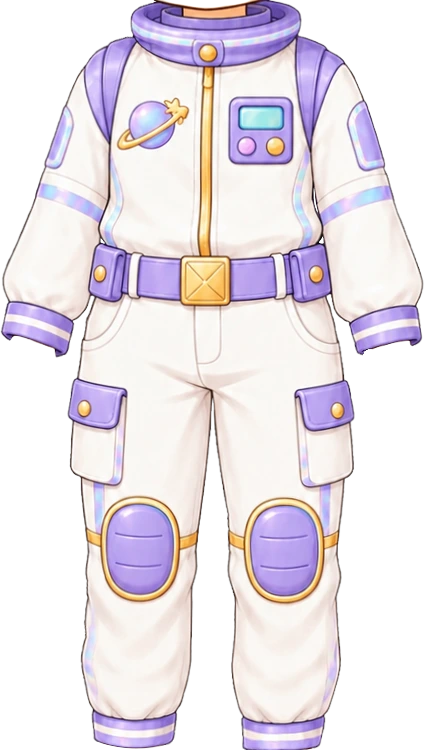
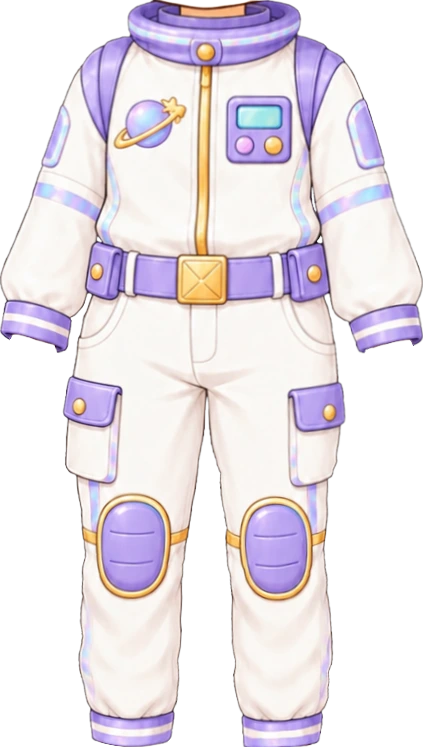
여아 우주복 새 원화로 교체 (#811)
같은 디자인의 새 원화를 앞 판에 템플릿 매칭해 사용자가 맞춘 자리(배율 0.714·목 x511.5·턱 y356)를 그대로 이었다(배율 0.7104). 목둘레 안 목 살은 지웠다. imgGirl ?v=5.

Claude-Session: https://claude.ai/code/session_018maNuYqDfFyRSe9uKpZhPR

diff --git a/src/data/avatarEquipment.js b/src/data/avatarEquipment.js
@@ -343,8 +343,12 @@ export const AVATAR_CATALOG = [
      원화 맨 위의 턱선과 목둘레 안쪽 목 살을 지워 베이스 목이 그대로 보이게 하고, 목둘레 안 목 중심(x214)을 여아 목 중심 x512.5 에,
      원화 턱 자리 y2 를 여아 턱선 y361 에 맞췄다. 배율 0.70 — 흰 수영복·다리가 다 가려지고 발목·손목에서 끝난다. imgGirl ?v=2.
      [2026-10-02] 사용자 조정 — 위로 5·왼쪽 1·2% 크게: 배율 0.714, 목 중심 x511.5, 턱 자리 y356. 탑재 상자 (359,355,662,891). imgGirl ?v=4.
-     (?v=3 은 조정값이 안 먹고 0.68배로 잘못 들어갔던 판) */
-  { id: "top_space",      slot: "top",   label: "우주 탐험대",       emoji: "🚀", labelGirl: "별빛 우주인", emojiGirl: "🪐", price:DECOR_PRICE.epic, rarity: "epic", theme: "space",  coversBottom: true, img: "assets/avatar/top/space-suit-boy.webp?v=3", imgGirl: "assets/avatar/top/space-suit-girl.webp?v=4", thumb: "assets/avatar/thumb/top_space.webp?v=4", thumbGirl: "assets/avatar/thumb/top_space-girl.webp?v=5" },
+     (?v=3 은 조정값이 안 먹고 0.68배로 잘못 들어갔던 판)
+     [2026-10-03] 여아 우주복 원화 다시 교체(같은 디자인, 팔·다리가 조금 날씬한 판, 423×747). 사용자가 맞춘 자리를 잇도록
+     새 원화를 옛 원화에 템플릿 매칭(상관 0.88)해 옛 원화 좌표 = 0.995×새 좌표 + (3,2) 를 얻고 같은 탑재값으로 옮겼다 —
+     배율 0.7104, 목 중심 새 원화 x212.06 → x511.5, 턱 자리 y0 → y356. 목둘레 안(y0~23, x173~255)과 맨 위(y0~5)의 보라 아닌 픽셀을 지웠다.
+     옛 판과 겹침 IoU 0.956. 탑재 상자 (361,356,662,887). imgGirl ?v=5. */
+  { id: "top_space",      slot: "top",   label: "우주 탐험대",       emoji: "🚀", labelGirl: "별빛 우주인", emojiGirl: "🪐", price:DECOR_PRICE.epic, rarity: "epic", theme: "space",  coversBottom: true, img: "assets/avatar/top/space-suit-boy.webp?v=3", imgGirl: "assets/avatar/top/space-suit-girl.webp?v=5", thumb: "assets/avatar/thumb/top_space.webp?v=4", thumbGirl: "assets/avatar/thumb/top_space-girl.webp?v=5" },
 
   /* ── 우주 세트 (남아) — 사용자 원화 2026-09-29 ────────────────────────────
      우주복(top_space)과 같은 원화 세트에서 나온 가방·신발. 둘 다 남아 전용 첫

diff --git a/art-src/README.md b/art-src/README.md
@@ -372,7 +372,7 @@ getBoundingClientRect로 재서 정한다. 2026-08-05 점검에서 이 기준을
 | (돌고래·돛단배 되돌림 2026-09-27) | 바로 위 8종 작업에서 **두 곳을 잘못 지웠다.** ① 돌고래 — '몸과 물 사이'를 지우면서 **눈 아래 흰 턱(300px, (119,130)-(174,142))까지 같이 날렸다.** 상자를 물결선 아래(y≥146)로만 좁혀 다시 지우니 물결선 띠(1029px)와 꼬리쪽 물방울 옆(227px)만 사라지고 턱은 남는다. ② 돛단배 — '돛대와 천 사이'라고 본 흰색은 **배경이 아니라 앞돛(jib)** 이었다. 아이 뒤에 흰 앞돛이 통째로 그려져 있고 큰 돛도 돛대에 바로 붙어 있어 **둘 사이에 지울 배경 자체가 없다.** (225,14) 기준으로 지운 6덩어리가 전부 돛 안쪽을 파먹어, 남녀 두 장 다 손대기 전으로 되돌렸다. **교훈: 흰 물건 옆의 '틈'은 지우기 전에 5배로 확대해 배경인지 물건인지 눈으로 확인할 것** — 마젠타 위에서도 흰 물건과 흰 배경은 똑같이 보인다 | assets/expedition/ride/dolphin{,-girl}.webp · sailboat{,-girl}.webp |
 | growth-characters-760/adventure/{boy,girl}/stage-1~5.webp | **탐험 성장 캐릭터 5단계 남·여 (사용자 원화 2026-09-26 — 전면 교체)** — 받은 그림 10장이 전부 배경이 지워진 상태였고 **알파 1~19 짜리 헤일로**가 있었다(남아2 11,051px · 여아1 11,953px). **안 누르면 알파 상자가 그쪽까지 늘어나 캐릭터가 작게 들어간다** — 남아2 는 상자가 684 → 1042 로 벌어졌다. 눌러서 다시 잰 뒤 아바타 장비와 같은 규칙(연결 조각 60px 미만 제거 + 250px 이하 안쪽 구멍 메움)을 돌렸다. 겨드랑이·다리 사이처럼 **큰 빈 곳은 진짜 여백이라 그대로 둔다** — 옷과 달리 캐릭터는 구멍이 있는 게 정상이다. 보관 760 높이 · 배포 500 높이(알파 상자에 맞춰 자르고 세로만 맞춘다, 가로는 비율). **진화할수록 물건이 하나씩 는다** — 1 기본(사파리 헬멧·노란 조끼·초록 반바지·부츠) → 2 +고글 → 3 +허리 파우치 → 4 +빨간 스카프 → 5 +별 뱃지. 포즈도 단계마다 다르다(차렷 → 경례 → 가리키기 → 허리에 손 → 주먹). 예전 판(지도·돋보기·망토·지팡이가 늘어나던 세트)은 규칙 6 에 따라 같은 파일명으로 덮어썼다. CHAR_IMG 의 `?v=` 를 5 → 6 으로 올렸다 | assets/growth-characters/adventure/{boy,girl}/stage-1~5.webp |
 | (여아 전수 점검 2026-09-25) | 사용자 요청으로 **여아가 볼 수 있는 옷·모자 10종을 전부** 훑었다(입은 모습 + 상점 카드 + 자홍 배경 + 수치). 눈에 띄는 흠은 없었지만 수치로 **부스러기와 1픽셀급 구멍**이 남아 있어, 아바타 장비 전 파일에 같은 규칙을 한 번에 돌렸다 — **연결 조각 60px 미만 제거 + 테두리에 안 닿는 250px 이하 구멍을 이웃 색으로 메움**. 17개 파일이 손질됐다(해적 모자 부스러기 40·구멍 191 / 해적 옷 여아 구멍 73 / 별빛 마법사 부스러기 41 / 사파리 여아 부스러기 5·구멍 48 / 딸기 소풍 부스러기 7·구멍 22 …). 가장자리가 반투명이라 첫 판에 안 채워진 3개는 이웃 기준을 알파 60 으로 낮춰 마무리했다. **결과: 상점에 있는 17개 파일 전부 조각 1개·부스러기 0·구멍 0.** 손질로 그림이 바뀐 8종은 썸네일을 다시 뽑고 `?v=` 를 올렸다. 은퇴 파일(비행모·꽃헬멧·탐험헬멧·크림부츠·탐험끈·데님/카키 반바지) 8개도 같은 규칙에 함께 손질됐다 — 상점엔 없지만 배포본에는 들어가므로 그대로 뒀다 | (전 파일) |
-| space-girl-src.webp | **우주복 원화 여아 — 새 판 (사용자 원화 2026-10-02, 이전 판 교체)**. 424×750 투명 배경, 흰 우주복(보라 목둘레·어깨·소매·무릎 패드, 금 지퍼·버클) 발목까지 한 벌. 맨 위에 베이스 턱선, 목둘레 안에 목 살이 그려져 있다 → 원화 y0~5 의 보라가 아닌 픽셀과 목둘레 안쪽(y0~17, x175~257)의 보라가 아닌 픽셀을 모두 지워 베이스 목이 비치게 했다. 목둘레 안 목 중심 x214 를 여아 목 중심 x512.5 에, 원화 턱 자리 y2 를 여아 턱선 y361 에 맞추고 배율 0.70 — 흰 수영복 0·종아리까지 다 가려지고 바지 끝이 발목, 소매 끝이 손목. 조각 1개. 탑재 상자 (363,360,660,885) · imgGirl ?v=2 **[2026-10-02 조정]** 사용자 요청 위로 5·왼쪽 1·2% 크게 — 배율 0.714, 목 중심 x511.5, 턱 자리 y356. 탑재 상자 (359,355,662,891) · imgGirl ?v=4 | avatar/top/space-suit-girl.webp · thumb/top_space-girl.webp |
+| space-girl-src.webp | **우주복 원화 여아 — 새 판 (사용자 원화 2026-10-03, 이전 판 교체)**. 423×747 투명 배경, 흰 우주복(보라 목둘레·어깨·소매·무릎 패드, 금 지퍼·버클) 발목까지 한 벌 — 앞 판(2026-10-02)과 같은 디자인에 팔·다리가 조금 날씬하다. 맨 위 턱선과 목둘레 안 목 살 → 원화 y0~5 와 목둘레 안쪽(y0~23, x173~255)의 보라가 아닌 픽셀을 지워 베이스 목이 비치게 했다. 사용자가 앞 판에서 맞춘 자리(배율 0.714·목 중심 x511.5·턱 y356)를 잇도록 새 원화를 앞 판에 템플릿 매칭(상관 0.88, 앞 판 좌표 = 0.995×새 좌표 + (3,2))해 같은 자리로 옮김 — 배율 0.7104, 목 중심 새 원화 x212.06 → x511.5, 턱 자리 y0 → y356. 앞 판과 겹침 IoU 0.956. 탑재 상자 (361,356,662,887) · imgGirl ?v=5 | avatar/top/space-suit-girl.webp · thumb/top_space-girl.webp |
 | picnic-girl-src.webp | **딸기 소풍 옷 원화 여아 — 새 판 (사용자 원화 2026-10-02, 이전 '입은 전신 그림' 판 교체)**. 388×447 투명 배경, 옷만 오려 낸 그림 — 분홍 깅엄 짧은 재킷, 흰 둥근 깃 블라우스·분홍 리본·금 단추, 분홍 반바지(흰 단). 맨 위에 목이 그려져 있다 → 원화 목 외곽선 중심 x198.5 를 여아 목 중심 x512.5 에, 원화 y14 를 y370 에 맞추고 목 폭(64→45px)으로 배율 0.70. 원화 목 살과 외곽선은 y2~14 에서 페이드. 흰 수영복 0, 조각 1개. 탑재 상자 (374,360,646,673) · img ?v=4 | avatar/top/picnic-outfit-girl.webp · thumb/top_picnic.webp |
 | magic-girl-src.webp | **별빛 마법사 옷 원화 여아 — 새 판 (사용자 원화 2026-10-02, 이전 판 교체)**. 512×553 투명 배경, 보라 후드 망토(금 테두리·별 브로치) + 연보라 원피스·초승달 허리띠·별 무늬 보라 치마, 소매 끝에 치마를 잡은 손까지 그려져 있다. 맨 위(원화 y0~16)에 베이스 턱 아래 곡선이 함께 그려져 있어 보라·금색이 아닌 픽셀을 지웠다. 후드 사이 목 중심 x255.5 를 여아 목 중심 x512.5 에, 원화 턱선 y14 를 여아 턱선 y361 에 맞추고 배율 0.62 — 원화 손이 아바타 손 자리(x357~417·y560~658)를 덮고 그 아래는 치마가 가려 손이 두 쌍으로 안 보인다(손을 지우면 손목이 잘려 보여 살렸다). 목 살은 턱선 아래 20px 동안 0→1 페이드. 흰 수영복 비침 0, 조각 1개. 탑재 상자 (354,353,671,695) · ?v=4 **[2026-10-02 보정]** 사용자 요청으로 옷에 그려진 손만 보이게 — 이 옷을 입으면 손을 뺀 몸 base/body-girl-nohands.webp 를 쓴다(카탈로그 bodyImgGirl). body-girl ?v=13 에서 소매가 팔을 다 덮는 줄(왼 y486·오른 y480)부터 아래의 양팔 덩어리와 손가락 조각(왼 x≤414·오른 x≥598)을 지워 만들었다 — **body-girl 을 바꾸면 이 파일도 다시 만들어야 한다** **[2026-10-02 조정]** 사용자 요청으로 위치는 그대로, 배율 0.62 → 0.6577(×1.04×1.02). 탑재 상자 (344,353,681,716) · img ?v=5, 손을 뺀 몸도 다시 만들어 ?v=2(소매가 팔을 덮는 줄 양쪽 y470) **[2026-10-02 재조정]** 배율 0.6577 → 0.698(위치 그대로). 탑재 상자 (334,353,691,737) · img ?v=6, 손을 뺀 몸 ?v=3 | avatar/top/magic-outfit-girl.webp · thumb/top_magic.webp |
 | pirate-girl-outfit-src.webp | **해적 옷 원화 여아 — 새 판 (사용자 원화 2026-10-02, 이전 판 교체)**. 416×485 투명 배경, 크림 퍼프 블라우스(둥근 깃·주황 리본·금단추) + 주황 허리띠를 맨 남색 반바지 한 벌. 위쪽에 목(턱 없음)이 함께 그려져 있다. 원화 목 외곽선 x177.5~240.5(폭 63, 중심 209)를 여아 목 중심 x512.5 에, 곧은 목선이 끝나는 원화 y15 를 여아 y372 에 맞추고 배율 0.70(목 폭이 같아지는 값 · 흰 수영복도 이 값부터 0). 목 살(r−b>70)과 목 옆선은 원화 y4→20 동안 0→1 페이드. 조각 1개. 탑재 상자 (366,362,657,702) · imgGirl ?v=4 **[2026-10-02 수정판]** 같은 크기의 사용자 수정판으로 덮어씀 — 반바지 밑단 아래(원화 y320~470)가 조금 늘었다. 같은 탑재값, 탑재 상자 (366,362,657,702) · imgGirl ?v=5 | avatar/top/pirate-outfit-girl.webp · thumb/top_pirate-girl.webp |
